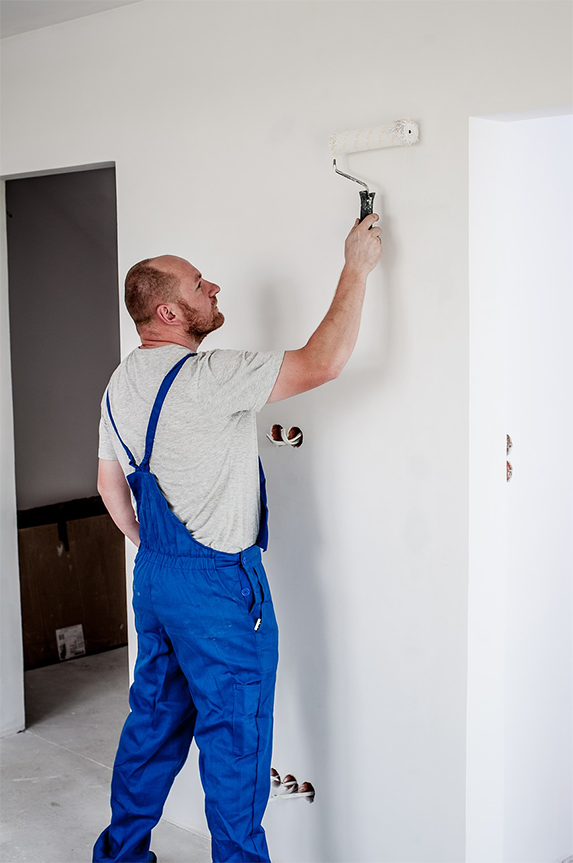
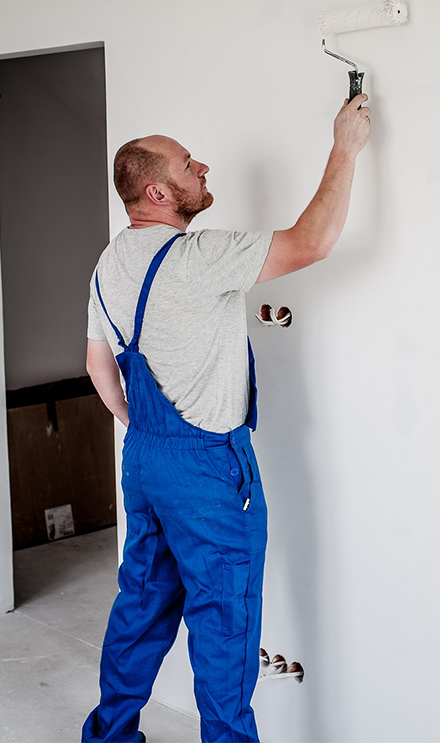
Paveiksleliai vietoje

diff --git a/Yms darbas 2/style.css b/Yms darbas 2/style.css
@@ -1,6 +1,6 @@
 h1 {
-    font-size: 30px;
-    line-height: 35px;
+    font-size: 40px;
+    line-height: 32px;
     font-weight: 600;
     font-family: "Raleway";
     text-align: center;
@@ -8,9 +8,44 @@ h1 {
 }
 
 p {
-    font-size: 17px;
-    line-height: 35px;
+    font-size: 20px;
+    line-height: 32px;
     font-weight: 600;
     text-align: center;
 
+}
+
+.Tracktor img {
+    padding-left: 275px;
+    padding-top: 30px;
+    display: inline-block;
+    position: fixed;
+}
+
+.Skywork img {
+    padding-left: 725px;
+    display: inline-block;
+    position: fixed;
+    padding-top: 30px;
+}
+
+.Painter img {
+    padding-left: 1175px;
+    display: inline-block;
+    position: fixed;
+    padding-top: 30px;
+}
+
+.Orangebubble img {
+    padding-top: 650px;
+    padding-left: 835px;
+    display: inline-block;
+    position: fixed;
+}
+
+.Blackbubble img {
+    display: inline-block;
+    position: fixed;
+    padding-left: 965px;
+    padding-top: 650px;
 }

diff --git a/Yms darbas 2/index.html b/Yms darbas 2/index.html
@@ -11,7 +11,16 @@
 <body>
     <h1>Our Features Projects</h1>
     <p>It is a long established fact, that a reader will be distracted by the readable</p>
-
+    <div class="Tracktor"> <img style="width: 435px; height: 575px; object-fit: cover;" src="IMG/Tracktor.png"
+            alt="Tracktor"></div>
+    <div class="Skywork"> <img style="width: 435px; height: 575px; object-fit: cover;" src="IMG/Skywork.png"
+            alt="Skywork"></div>
+    <div class="Painter"><img style="width: 435px; height: 575px; object-fit: cover;" src="IMG/Painter.png"
+            alt="Painter"></div>
+    <div class="Orangebubble"><img src="IMG/Orangebubble.png" alt="Orangebubble"></div>
+    <div class="Blackbubble"><img src="IMG/Blacbubble.png" alt="Blackbubble"></div>
+    <div class="Larrow"><img src="IMG/Larrow.png" alt="Larrow"></div>
+    <div class="Rarrow"><img src="IMG/Rarrow.png" alt="Rarrow"></div>
 </body>
 
 </html>
